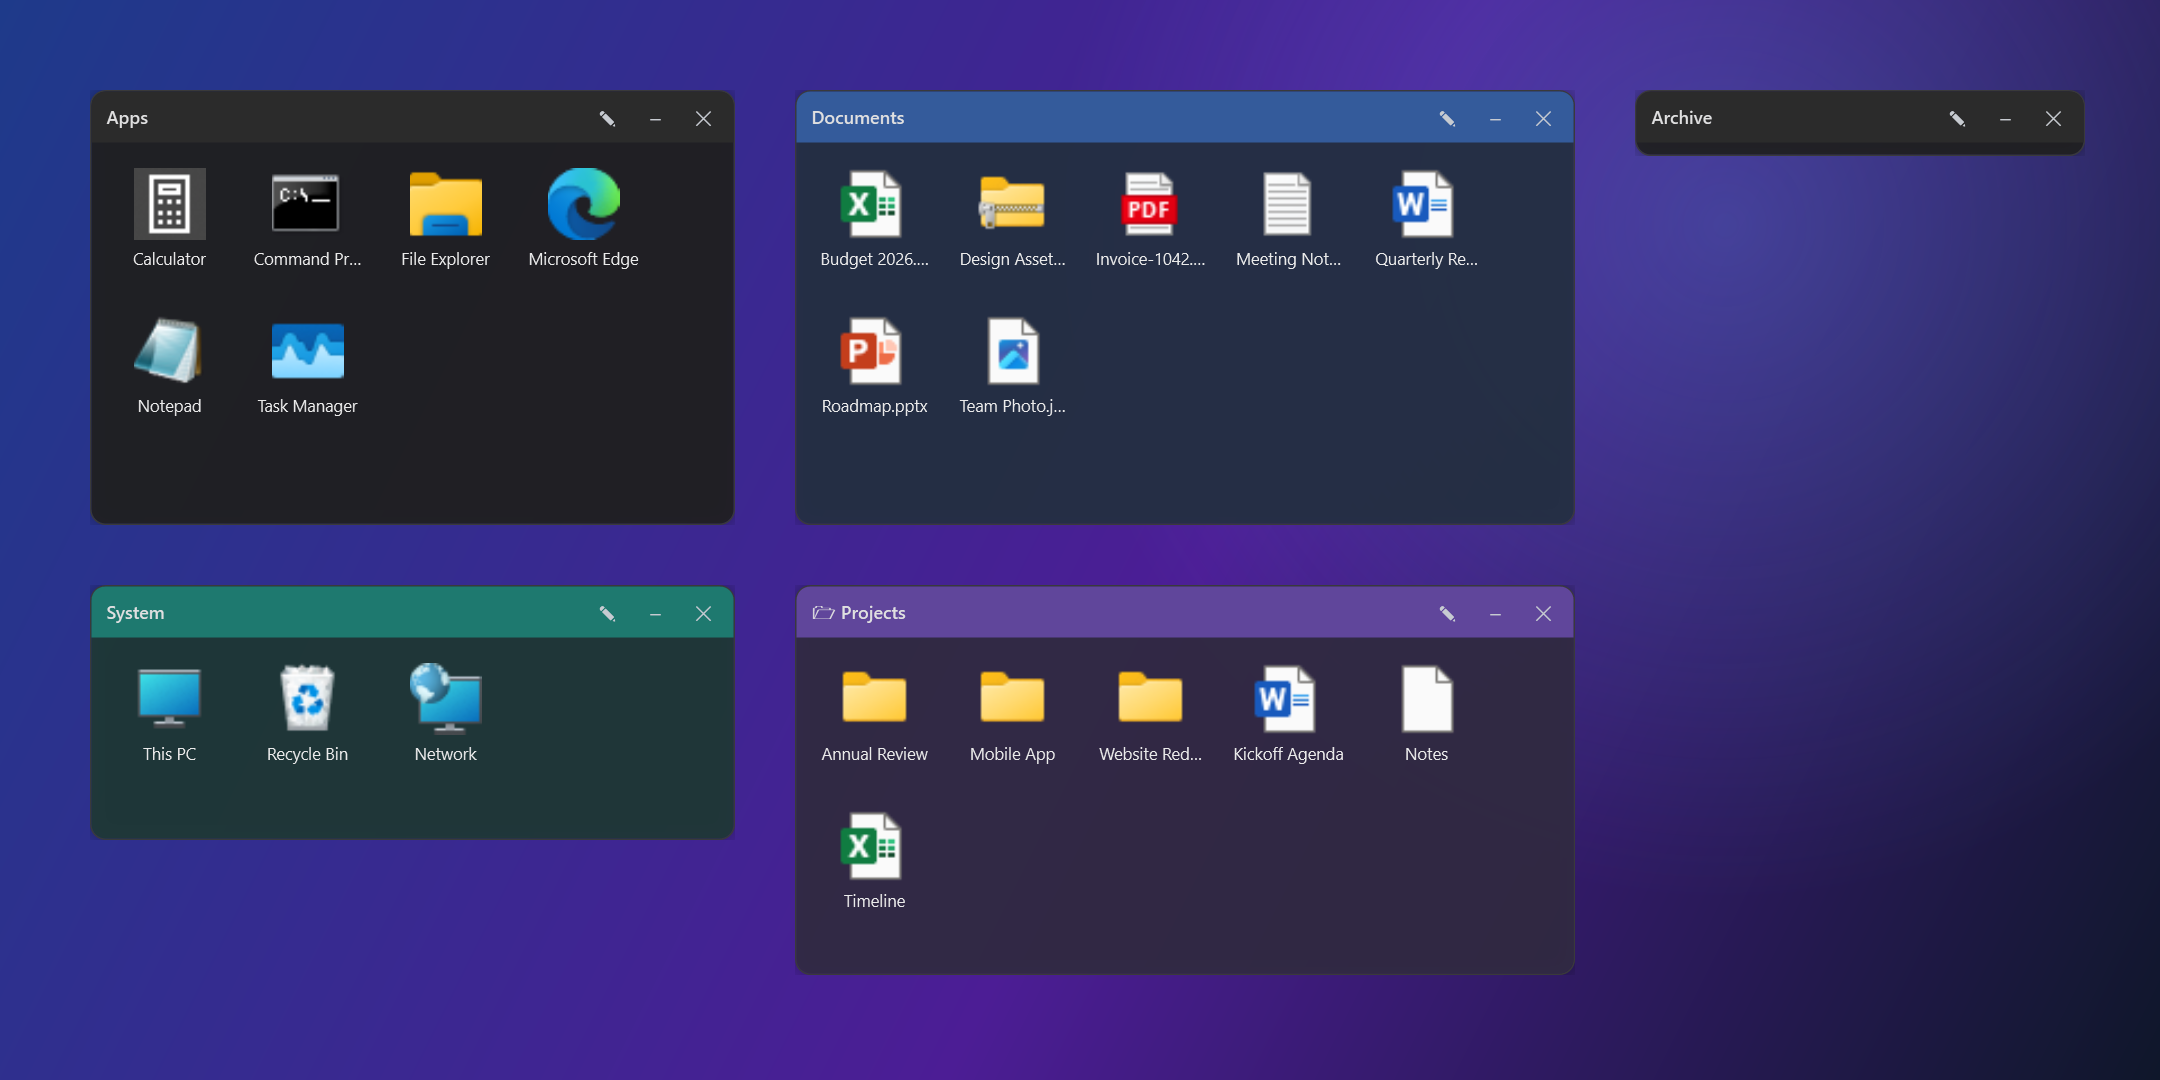
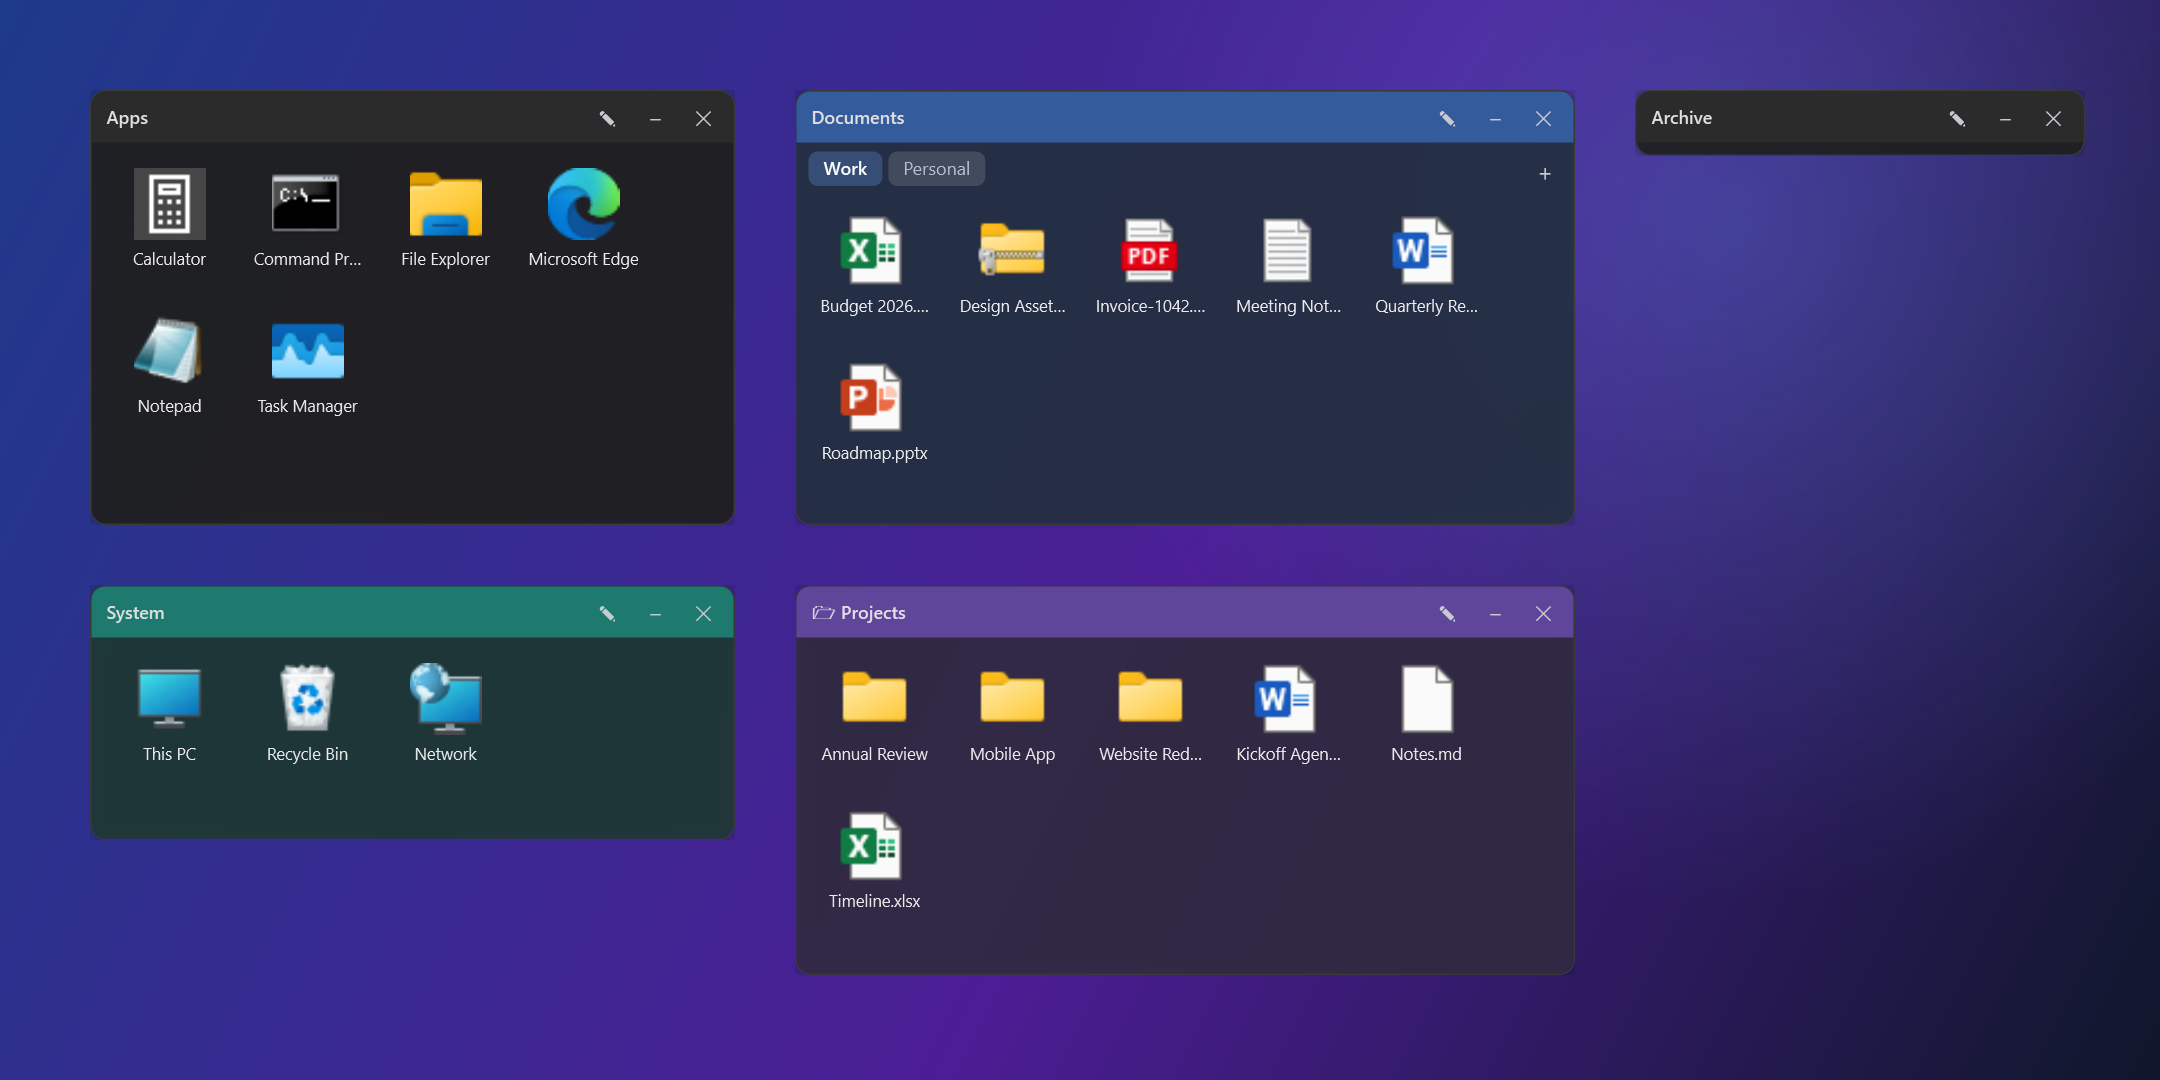
Update screenshots, README and website for the new look
tools/Screenshots now also renders the redesigned main window and
Quick Look (with a generated picture), shows tabs on the Documents
fence, and keeps the user's paths and the app version out of the
images. The README features the backgrounds GIF at the top and
documents tabs, Quick Look, the new window and customizable
shortcuts; the website gains Tabs and Quick Look cards and sections
for the main window and Quick Look.

diff --git a/site/index.html b/site/index.html
@@ -56,7 +56,13 @@
           <p>Show any folder as a live fence and browse into its subfolders without opening Explorer.</p></div>
         <div class="feature"><span class="glyph" aria-hidden="true">⌕</span>
           <h3>Search everything</h3>
-          <p>Press <kbd>Ctrl</kbd>+<kbd>Alt</kbd>+<kbd>F</kbd> to find any item in any fence. <kbd>Ctrl</kbd>+<kbd>Alt</kbd>+<kbd>H</kbd> hides or shows them all.</p></div>
+          <p>Press <kbd>Ctrl</kbd>+<kbd>Alt</kbd>+<kbd>F</kbd> to find any item in any fence. <kbd>Ctrl</kbd>+<kbd>Alt</kbd>+<kbd>H</kbd> hides or shows them all. Both shortcuts can be changed.</p></div>
+        <div class="feature"><span class="glyph" aria-hidden="true">▤</span>
+          <h3>Tabs inside fences</h3>
+          <p>Split a busy fence into tabs. Drag tiles onto a tab to move them; <kbd>Ctrl</kbd>+<kbd>Tab</kbd> switches.</p></div>
+        <div class="feature"><span class="glyph" aria-hidden="true">◉</span>
+          <h3>Quick Look</h3>
+          <p>Press <kbd>Space</kbd> on a tile for a big preview of pictures, videos, audio and text, then use the arrow keys to flip through.</p></div>
         <div class="feature"><span class="glyph" aria-hidden="true">⇕</span>
           <h3>Roll up and peek</h3>
           <p>Double-click a title to roll a fence up; rest the mouse on it to peek inside.</p></div>
@@ -84,6 +90,26 @@
       <div>
         <h2>Pictures and videos behind your icons</h2>
         <p class="section-lead">Give any fence a picture or a looping video background. It fades with the fence's transparency, can be darkened so labels stay readable, and pauses while the fence is hidden or rolled up.</p>
+      </div>
+    </div>
+  </section>
+
+  <section>
+    <div class="wrap split">
+      <div>
+        <h2>Everything in one place</h2>
+        <p class="section-lead">The OpenFences window lists every fence and what it's doing, with one-click actions to open, close, locate or delete it, plus simple switches for every setting.</p>
+      </div>
+      <img src="assets/screenshot-app.png" alt="The OpenFences window: quick actions and a list of fences with their state">
+    </div>
+  </section>
+
+  <section>
+    <div class="wrap split">
+      <img src="assets/screenshot-quicklook.png" alt="Quick Look previewing a picture from a fence">
+      <div>
+        <h2>Peek without opening</h2>
+        <p class="section-lead">Select a tile and press Space. Quick Look shows pictures, plays video and audio, and displays text and code, right over your desktop.</p>
       </div>
     </div>
   </section>

diff --git a/tools/Screenshots/Program.cs b/tools/Screenshots/Program.cs
@@ -5,7 +5,9 @@ using System;
 using System.Collections.Generic;
 using System.IO;
 using System.Linq;
+using System.Text.RegularExpressions;
 using System.Windows;
+using System.Windows.Markup;
 using System.Windows.Controls;
 using System.Windows.Media;
 using System.Windows.Media.Imaging;
@@ -46,6 +48,8 @@ internal static class Program
                 SaveDesktop(fences, "screenshot-desktop.png", search: null);
                 SaveDesktop(fences, "screenshot-search.png", search: "no");
                 SaveWelcome("screenshot-welcome.png");
+                SaveAppWindow(fences, "screenshot-app.png");
+                SaveQuickLook(fences, "screenshot-quicklook.png");
                 foreach (var f in fences) f.Close();
                 Console.WriteLine("Saved screenshots to " + _outDir);
                 System.Windows.Application.Current.Shutdown();
@@ -72,6 +76,8 @@ internal static class Program
                      "Invoice-1042.pdf", "Team Photo.jpg", "Design Assets.zip"
                  })
             File.WriteAllText(Path.Combine(root, name), "");
+
+        DrawLandscape(Path.Combine(root, "Mountains.png"));
 
         var projects = Directory.CreateDirectory(Path.Combine(root, "Projects")).FullName;
         foreach (var dir in new[] { "Website Redesign", "Mobile App", "Annual Review" })
@@ -114,7 +120,13 @@ internal static class Program
             {
                 Name = "Documents", AccentColor = "#3B82F6", Left = 530, Top = 60, Width = 520, Height = 290,
                 ItemPaths = new[] { "Quarterly Report.docx", "Budget 2026.xlsx", "Roadmap.pptx", "Meeting Notes.txt",
-                                    "Invoice-1042.pdf", "Team Photo.jpg", "Design Assets.zip" }.Select(D).ToList()
+                                    "Invoice-1042.pdf", "Design Assets.zip", "Team Photo.jpg", "Mountains.png" }.Select(D).ToList(),
+                // Tabs: work files on the first tab, personal ones on the second.
+                Tabs = new List<FenceTab>
+                {
+                    new() { Name = "Work" },
+                    new() { Name = "Personal", ItemPaths = new[] { "Team Photo.jpg", "Mountains.png" }.Select(D).ToList() }
+                }
             },
             new FenceModel
             {
@@ -200,6 +212,129 @@ internal static class Program
 
         Save(scene, file);
         foreach (var f in fences) f.ApplySearch(null);
+    }
+
+    // The main window (Home page), loaded from its XAML with these demo fences listed. The
+    // real window can't be created here: its constructor takes over the desktop.
+    private static void SaveAppWindow(List<FenceWindow> fences, string file)
+    {
+        var xamlPath = FindRepoFile(Path.Combine("OpenFences", "MainWindow.xaml"));
+        var xaml = File.ReadAllText(xamlPath).Replace("x:Class=\"OpenFences.MainWindow\"", "");
+        xaml = Regex.Replace(xaml, @"\s(Click|Checked|PreviewKeyDown|GotKeyboardFocus|LostKeyboardFocus)=""[^""]*""", "");
+        xaml = xaml.Replace("Source=\"Themes/HubStyles.xaml\"", "Source=\"pack://application:,,,/OpenFences;component/Themes/HubStyles.xaml\"");
+        var w = (Window)XamlReader.Parse(xaml);
+        w.Width = 1080; w.Height = 720;
+        w.Left = -40000; w.Top = -40000;
+        w.Show();
+
+        T Find<T>(string name) where T : class => (w.FindName(name) as T)!;
+        Brush B(string c) => (Brush)new BrushConverter().ConvertFromString(c)!;
+        Find<TextBlock>("SidebarVersion").Text = ""; // would go stale with every release
+        Find<Button>("ToggleAllButton").Content = "Hide all fences";
+        Find<TextBlock>("SearchTileHint").Text = "Find any item (Ctrl+Alt+F)";
+
+        var rows = fences.Select(f => new MainWindow.FenceRow(f)
+        {
+            Name = f.FenceName,
+            Details = f.IsPortal ? $"Folder portal · {f.ItemCount} items"
+                                 : f.TabCount > 0 ? $"{f.ItemCount} items · {f.TabCount} tabs" : $"{f.ItemCount} items",
+            Swatch = string.IsNullOrEmpty(f.AccentColor) ? B("#4A5366") : B(f.AccentColor!),
+            State = f.IsCollapsed ? "Rolled up" : "Shown",
+            StateBrush = f.IsCollapsed ? B("#1B2A4A") : B("#14532D"),
+            ShowLabel = "Close"
+        }).ToList();
+        Find<ItemsControl>("FenceList").ItemsSource = rows;
+        Find<TextBlock>("SummaryText").Text =
+            $"{rows.Count} fences · {fences.Where(f => !f.IsPortal).Sum(f => f.ItemCount)} desktop items";
+        Flush();
+
+        var root = (FrameworkElement)w.Content;
+        Save(root, file);
+        w.Close();
+    }
+
+    // Quick Look previewing the landscape, over the desktop scene.
+    private static void SaveQuickLook(List<FenceWindow> fences, string file)
+    {
+        var docs = fences.First(f => f.FenceName == "Documents");
+        var items = docs.SearchableItems().Select(x => x.Item).ToList();
+        foreach (var i in items) i.Icon ??= OpenFences.Services.IconHelper.GetImageSourceForPath(i.Path);
+        int index = items.FindIndex(i => i.Path.EndsWith("Mountains.png", StringComparison.OrdinalIgnoreCase));
+
+        var ql = new QuickLookWindow(items, index) { Width = 860, Height = 560 };
+        ql.Show();
+        ql.Left = -50000; ql.Top = -50000;
+        // The real header shows the file's folder; here that's a temp path with the user's name.
+        if (ql.FindName("DetailsText") is TextBlock details)
+            details.Text = Regex.Replace(details.Text, @" · [A-Za-z]:\\.*$", " · Pictures");
+        Flush();
+
+        var scene = Scene();
+        foreach (var f in fences)
+            Place(scene, Snapshot(f), (Point)f.Tag, f.ActualWidth, f.ActualHeight);
+        var dim = new System.Windows.Shapes.Rectangle { Width = SceneW, Height = SceneH, Fill = new SolidColorBrush(Color.FromArgb(90, 0, 0, 0)) };
+        scene.Children.Add(dim);
+        var card = (FrameworkElement)ql.Content;
+        ql.Content = null;
+        Place(scene, card, new Point((SceneW - 860) / 2, (SceneH - 560) / 2 + 10), 860, 560);
+        Save(scene, file);
+        ql.Close();
+    }
+
+    private static string FindRepoFile(string relative)
+    {
+        for (var dir = new DirectoryInfo(Directory.GetCurrentDirectory()); dir != null; dir = dir.Parent)
+        {
+            var candidate = Path.Combine(dir.FullName, relative);
+            if (File.Exists(candidate)) return candidate;
+        }
+        throw new FileNotFoundException("Run this from the repository: couldn't find " + relative);
+    }
+
+    private static void Save(FrameworkElement element, string file)
+    {
+        var bmp = new RenderTargetBitmap((int)(element.ActualWidth * Dpi / 96), (int)(element.ActualHeight * Dpi / 96), Dpi, Dpi, PixelFormats.Pbgra32);
+        bmp.Render(element);
+        var enc = new PngBitmapEncoder();
+        enc.Frames.Add(BitmapFrame.Create(bmp));
+        using var fs = File.Create(Path.Combine(_outDir, file));
+        enc.Save(fs);
+    }
+
+    // A simple sunset landscape, drawn here so the demo has a real picture that's free to publish.
+    private static void DrawLandscape(string path)
+    {
+        const int w = 1600, h = 1000;
+        var dv = new DrawingVisual();
+        using (var dc = dv.RenderOpen())
+        {
+            dc.DrawRectangle(new LinearGradientBrush(new GradientStopCollection
+            {
+                new(Color.FromRgb(0x1E, 0x1B, 0x4B), 0.0), new(Color.FromRgb(0x7C, 0x3A, 0xED), 0.45),
+                new(Color.FromRgb(0xF9, 0x73, 0x16), 0.8), new(Color.FromRgb(0xFD, 0xE0, 0x47), 1.0),
+            }, 90), null, new Rect(0, 0, w, h));
+            dc.DrawEllipse(new RadialGradientBrush(Color.FromRgb(0xFF, 0xF7, 0xC2), Color.FromArgb(0, 0xFD, 0xBA, 0x74)),
+                           null, new Point(w * 0.62, h * 0.66), 280, 280);
+            var rnd = new Random(7);
+            foreach (var (baseline, color) in new[] { (0.62, "#4C1D95"), (0.72, "#312E81"), (0.82, "#1E1B4B"), (0.9, "#0F0A2E") })
+            {
+                var g = new StreamGeometry();
+                using (var ctx = g.Open())
+                {
+                    ctx.BeginFigure(new Point(0, h), true, true);
+                    for (int x = 0; x <= w; x += 80)
+                        ctx.LineTo(new Point(x, h * baseline - 60 * Math.Sin(x / 260.0 + baseline * 9) - rnd.Next(0, 30)), true, true);
+                    ctx.LineTo(new Point(w, h), true, true);
+                }
+                dc.DrawGeometry((Brush)new BrushConverter().ConvertFromString(color)!, null, g);
+            }
+        }
+        var bmp = new RenderTargetBitmap(w, h, 96, 96, PixelFormats.Pbgra32);
+        bmp.Render(dv);
+        var enc = new PngBitmapEncoder();
+        enc.Frames.Add(BitmapFrame.Create(bmp));
+        using var fs = File.Create(path);
+        enc.Save(fs);
     }
 
     private static void SaveWelcome(string file)

diff --git a/README.md b/README.md
@@ -14,6 +14,8 @@
 OpenFences is a lightweight, open-source WPF app for Windows that lets you organize your desktop into movable, resizable “fences.”  
 Your real desktop items are shown as tiles inside fences. Nothing is copied and no shortcuts are created; a fence just decides where each desktop item appears. Group items into fences, mirror any folder as a **Folder Portal**, lasso-select across fences, and use **Auto-Import** to sort your desktop into **Apps**, **Documents**, and **System** fences in one click.
 
+![OpenFences in action: fences with a picture and a looping video background that fade with the fence's transparency](OpenFences/Docs/backgrounds-demo.gif "OpenFences in action")
+
 > Not affiliated with or endorsed by Stardock. “Fences” is a trademark of its respective owner. This project is an educational/utility clone built from scratch in C#.
 
 ---
@@ -57,19 +59,25 @@ Your real desktop items are shown as tiles inside fences. Nothing is copied and 
   Fences snap to screen edges and to each other (aligned or side by side) while you move or resize them, with an optional grid. Hold **Alt** to move freely.
 
 - **Search every fence**  
-  **Ctrl+Alt+F** opens a quick search: matching items are listed (Enter opens one), fences come to the front, and everything that doesn't match fades out.
+  **Ctrl+Alt+F** opens a quick search across every fence and tab: matching items are listed (Enter opens one), fences come to the front, and everything that doesn't match fades out.
 
 - **Global shortcuts**  
-  **Ctrl+Alt+H** hides or shows all fences from anywhere, even while OpenFences is in the tray.
+  **Ctrl+Alt+H** hides or shows all fences from anywhere, even while OpenFences is in the tray. Both shortcuts can be changed in **Settings**.
+
+- **Tabs inside fences**  
+  Split a busy fence into tabs (fence menu → **Add tab…**). Click a tab or press **Ctrl+Tab** to switch, drag tiles onto a tab to move them, right-click a tab to rename or delete it.
+
+- **Quick Look**  
+  Press **Space** on a tile for a large preview: pictures, video and audio with sound, text and code, or file details. Arrow keys step through the fence; Enter opens.
 
 - **Keyboard friendly**  
-  Arrow keys, Home/End and type-a-letter move through a fence; Enter opens, Delete recycles, F2 renames the selected item (or the fence, when nothing is selected), Esc clears the selection, Backspace goes up a folder in a portal.
+  Arrow keys, Home/End and type-a-letter move through a fence; Space previews, Enter opens, Delete recycles, F2 renames the selected item (or the fence, when nothing is selected), Esc clears the selection, Backspace goes up a folder in a portal.
 
 - **Multi-monitor aware**  
   Each fence remembers where you put it for every monitor arrangement (docked, undocked, projector…) and returns there; fences that would land off-screen are pulled back onto a visible display.
 
 - **Layout snapshots**  
-  **File → Layouts** saves your whole fence layout and restores it later. A snapshot is also taken automatically before Auto-Import, rule sorting and restores, so big changes can be undone.
+  **Settings → Layouts** saves your whole fence layout and restores it later. A snapshot is also taken automatically before Auto-Import, rule sorting and restores, so big changes can be undone.
 
 - **Automatic update checks**  
   OpenFences checks GitHub for a new release at startup and once a day, shows what's new, and installs it on request (one Windows permission prompt), then restarts with your fences intact. Turn it off under **Settings → Check for updates automatically**, or check any time with **Check for updates now…**. Portable-zip copies get a link to the download instead.
@@ -77,11 +85,8 @@ Your real desktop items are shown as tiles inside fences. Nothing is copied and 
 - **Safe, persisted layout**  
   Positions and sizes are saved automatically to `%AppData%\\OpenFences\\config.json`, with a backup of the previous version in `config.json.bak` that is restored automatically if the file is ever damaged.
 
-- **Minimize to tray**  
-  The main controller window hides to the system tray; double-click the tray icon to restore.
-
-- **Dark UI**  
-  Modern, semi-transparent main window + dark menus with slim scrollbars.
+- **One home for everything**  
+  The OpenFences window lists every fence with its state (shown, rolled up, closed) and buttons to open, close, locate or delete each one, plus quick actions and a **Settings** page with simple on/off switches. It hides to the system tray; double-click the tray icon to bring it back.
 
 - **⚡ Auto-Import Desktop Icons**  
   One click creates (or reuses) three fences and sorts your desktop items into them:
@@ -97,9 +102,11 @@ Your real desktop items are shown as tiles inside fences. Nothing is copied and 
 
 ## 📷 Screenshots
 
-![Fence backgrounds: a picture and a looping video behind the tiles, fading with the fence's transparency, with darkening and fit options](OpenFences/Docs/backgrounds-demo.gif "Picture and video backgrounds")
+![Fences on the desktop: Apps, a Documents fence with Work and Personal tabs, System, a Projects folder portal and a rolled-up Archive fence](OpenFences/Docs/screenshot-desktop.png "Fences on the desktop")
 
-![Fences on the desktop: Apps, Documents, System, a Projects folder portal and a rolled-up Archive fence](OpenFences/Docs/screenshot-desktop.png "Fences on the desktop")
+![The OpenFences window: quick actions and every fence with its state](OpenFences/Docs/screenshot-app.png "The OpenFences window")
+
+![Quick Look previewing a picture from a fence](OpenFences/Docs/screenshot-quicklook.png "Quick Look")
 
 ![Ctrl+Alt+F search: matching items are listed and everything else fades out](OpenFences/Docs/screenshot-search.png "Search every fence")
 
@@ -179,7 +186,7 @@ dotnet run --project OpenFences/OpenFences.csproj
 
 - Z-order on the desktop can vary by Windows build; we nudge fences toward the desktop layer to keep them behind normal windows (search brings them to the front while it's open).  
 - A Folder Portal whose folder is missing or on a disconnected drive shows as *(unavailable)* until you reconnect it and restart OpenFences, or point it at another folder with **Change folder…**.  
-- Ctrl+Alt+F / Ctrl+Alt+H don't work if another app already uses them; turn them off under **Settings → Global shortcuts** if they conflict.  
+- Ctrl+Alt+F / Ctrl+Alt+H don't work if another app already uses them; change them (or turn them off) under **Settings → Keyboard shortcuts** if they conflict.  
 - Monitors with different scaling are handled with the system scale factor, so on mixed-DPI setups a fence can look slightly larger or smaller on one screen.
 
 ---
